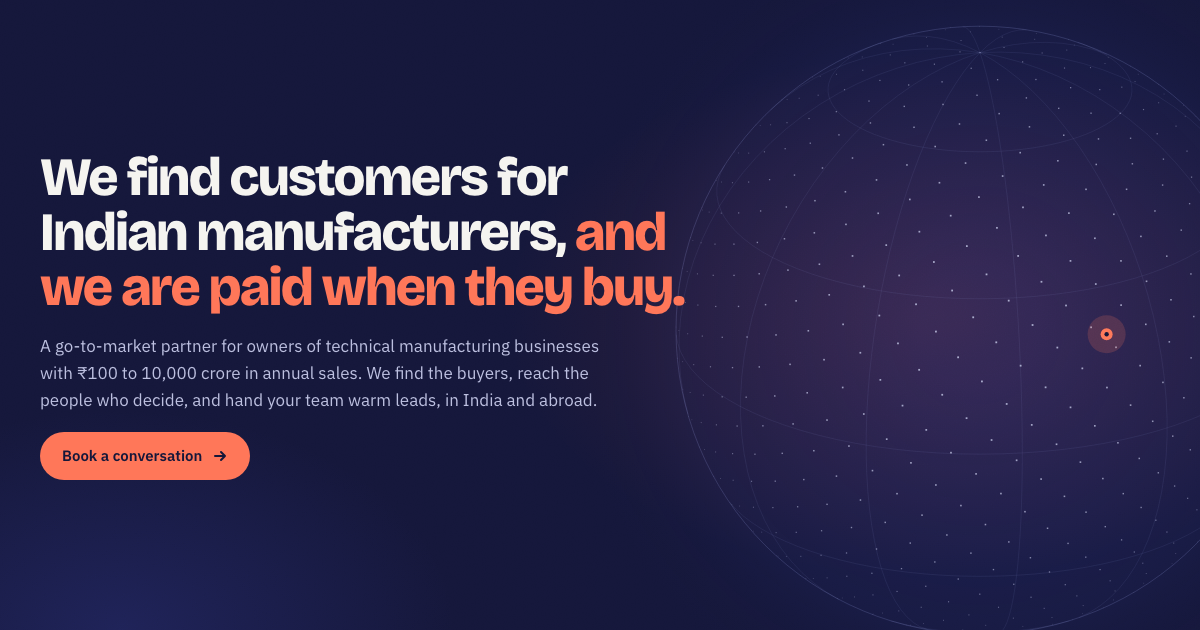
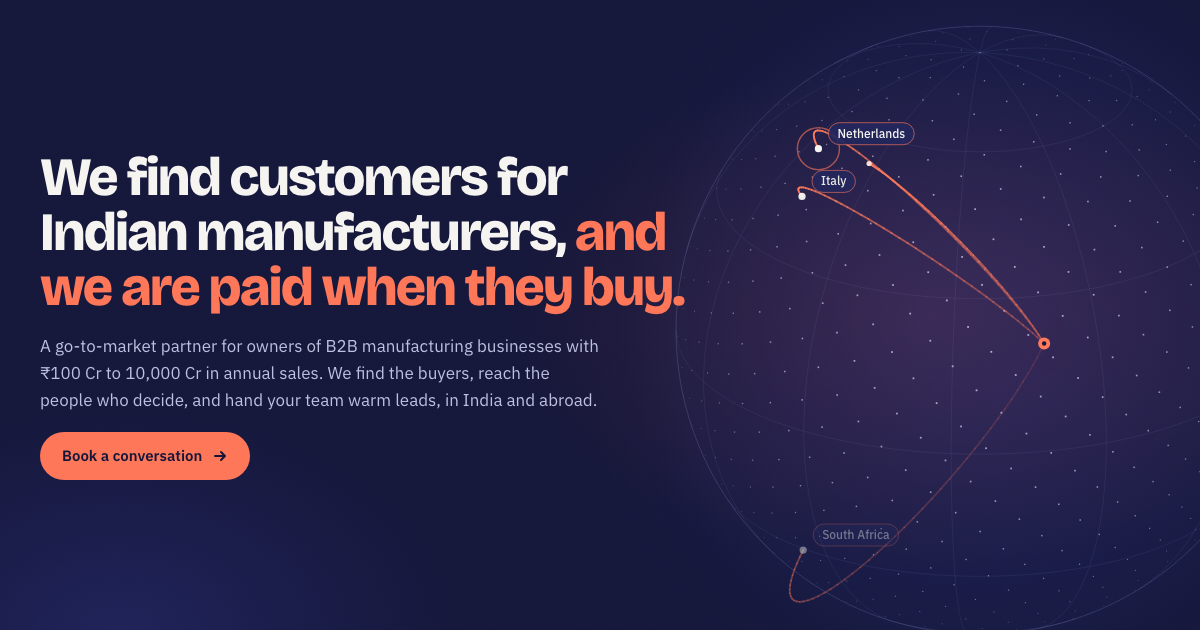
Update hero description and social image

diff --git a/index.html b/index.html
@@ -56,7 +56,7 @@
   <canvas id="globe" aria-label="A globe with routes travelling from India to buyers in export markets" role="img"></canvas>
   <div class="wrap">
     <h1><span class="w" style="--i:0">We</span> <span class="w" style="--i:1">find</span> <span class="w" style="--i:2">customers</span> <span class="w" style="--i:3">for</span> <span class="w" style="--i:4">Indian</span> <span class="w" style="--i:5">manufacturers,</span> <span class="hl"><span class="w" style="--i:6">and</span> <span class="w" style="--i:7">we</span> <span class="w" style="--i:8">are</span> <span class="w" style="--i:9">paid</span> <span class="w" style="--i:10">when</span> <span class="w" style="--i:11">they</span> <span class="w" style="--i:12">buy.</span></span></h1>
-    <p class="lede">A go-to-market partner for owners of technical manufacturing businesses with ₹100 to 10,000 crore in annual sales. We find the buyers, reach the people who decide, and hand your team warm leads, in India and abroad.</p>
+    <p class="lede">A go-to-market partner for owners of B2B manufacturing businesses with ₹100 Cr to 10,000 Cr in annual sales. We find the buyers, reach the people who decide, and hand your team warm leads, in India and abroad.</p>
     <div class="ctas">
       <a class="btn" href="#contact">Book a conversation <svg viewBox="0 0 16 16" fill="none" stroke="currentColor" stroke-width="2" stroke-linecap="round" stroke-linejoin="round" aria-hidden="true"><path d="M3 8h10M9 4l4 4-4 4"/></svg></a>
     </div>
